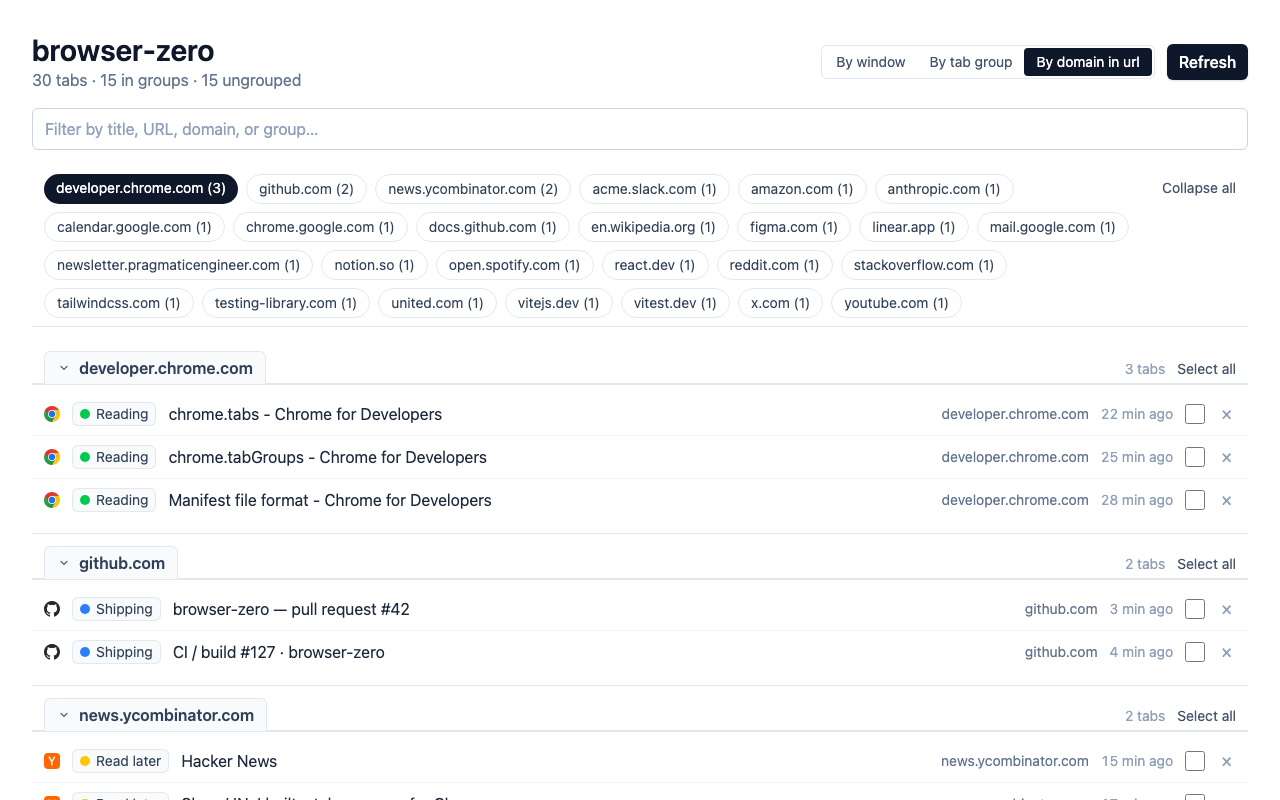
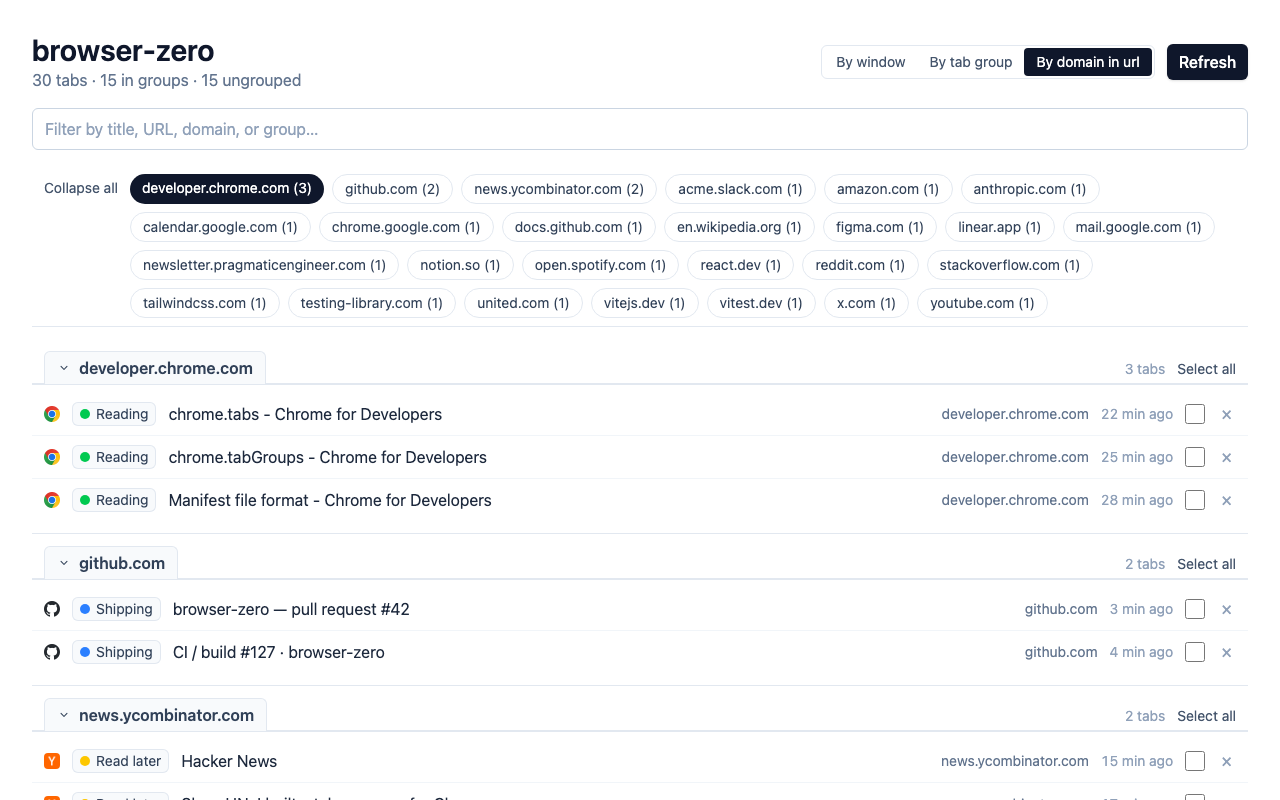
feat(dashboard): move expand/collapse-all toggle to the left of the chip nav
User feedback: the toggle is the action you reach for after looking at
the chips, and the chips sit at the left of the sticky nav — so the
toggle wants to be near them, not stranded on the right. Swap layout
so the button leads the row and the chip list follows.

Behavior unchanged; 78/78 still green. Web Store screenshots
regenerated to reflect the new layout.

diff --git a/src/dashboard/components/GroupNav.tsx b/src/dashboard/components/GroupNav.tsx
@@ -29,8 +29,15 @@ export function GroupNav({
   return (
     <nav
       aria-label="Jump to group"
-      className="sticky top-0 z-10 mb-3 flex items-start justify-between gap-3 border-b border-slate-200 bg-white/95 px-3 py-2 text-sm backdrop-blur"
+      className="sticky top-0 z-10 mb-3 flex items-start gap-3 border-b border-slate-200 bg-white/95 px-3 py-2 text-sm backdrop-blur"
     >
+      <button
+        type="button"
+        onClick={onToggleAllCollapsed}
+        className="shrink-0 self-start whitespace-nowrap py-1 text-slate-600 hover:text-slate-900 hover:underline"
+      >
+        {allCollapsed ? 'Expand all' : 'Collapse all'}
+      </button>
       <div className="flex flex-wrap gap-2">
         {groups.map((group) => {
           const isActive = group.key === activeKey;
@@ -53,13 +60,6 @@ export function GroupNav({
           );
         })}
       </div>
-      <button
-        type="button"
-        onClick={onToggleAllCollapsed}
-        className="shrink-0 self-start whitespace-nowrap py-1 text-slate-600 hover:text-slate-900 hover:underline"
-      >
-        {allCollapsed ? 'Expand all' : 'Collapse all'}
-      </button>
     </nav>
   );
 }
